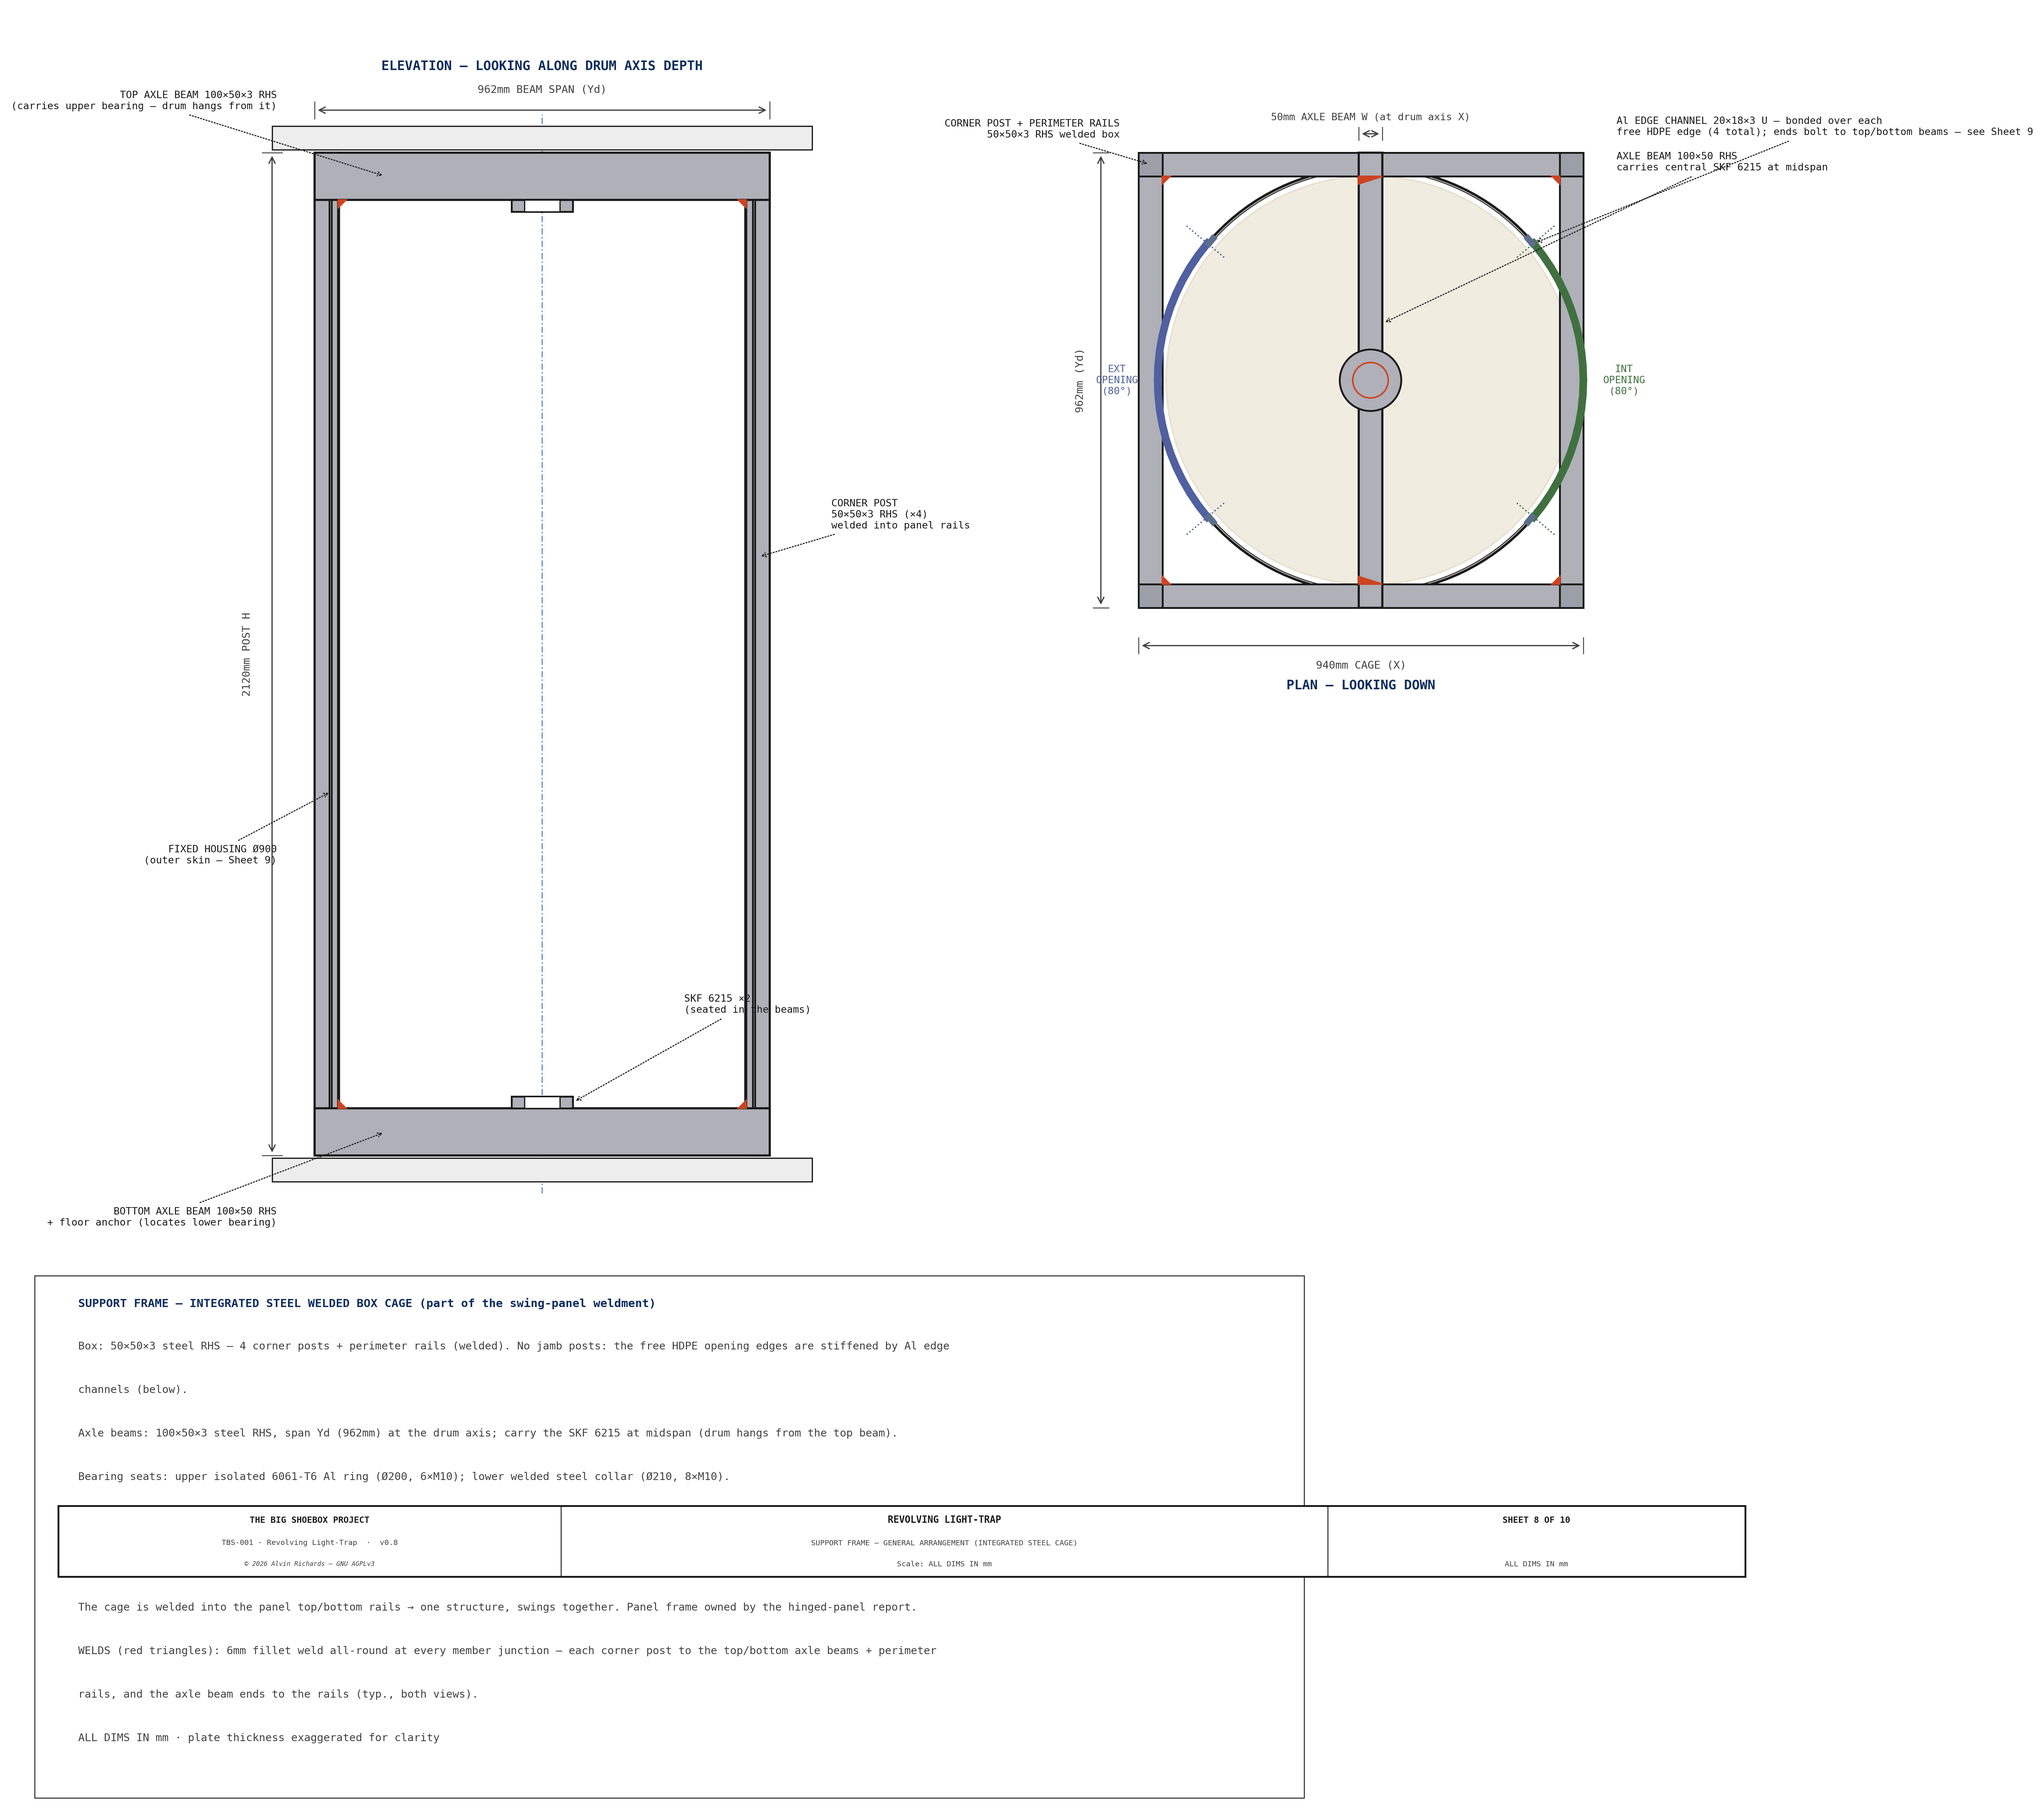
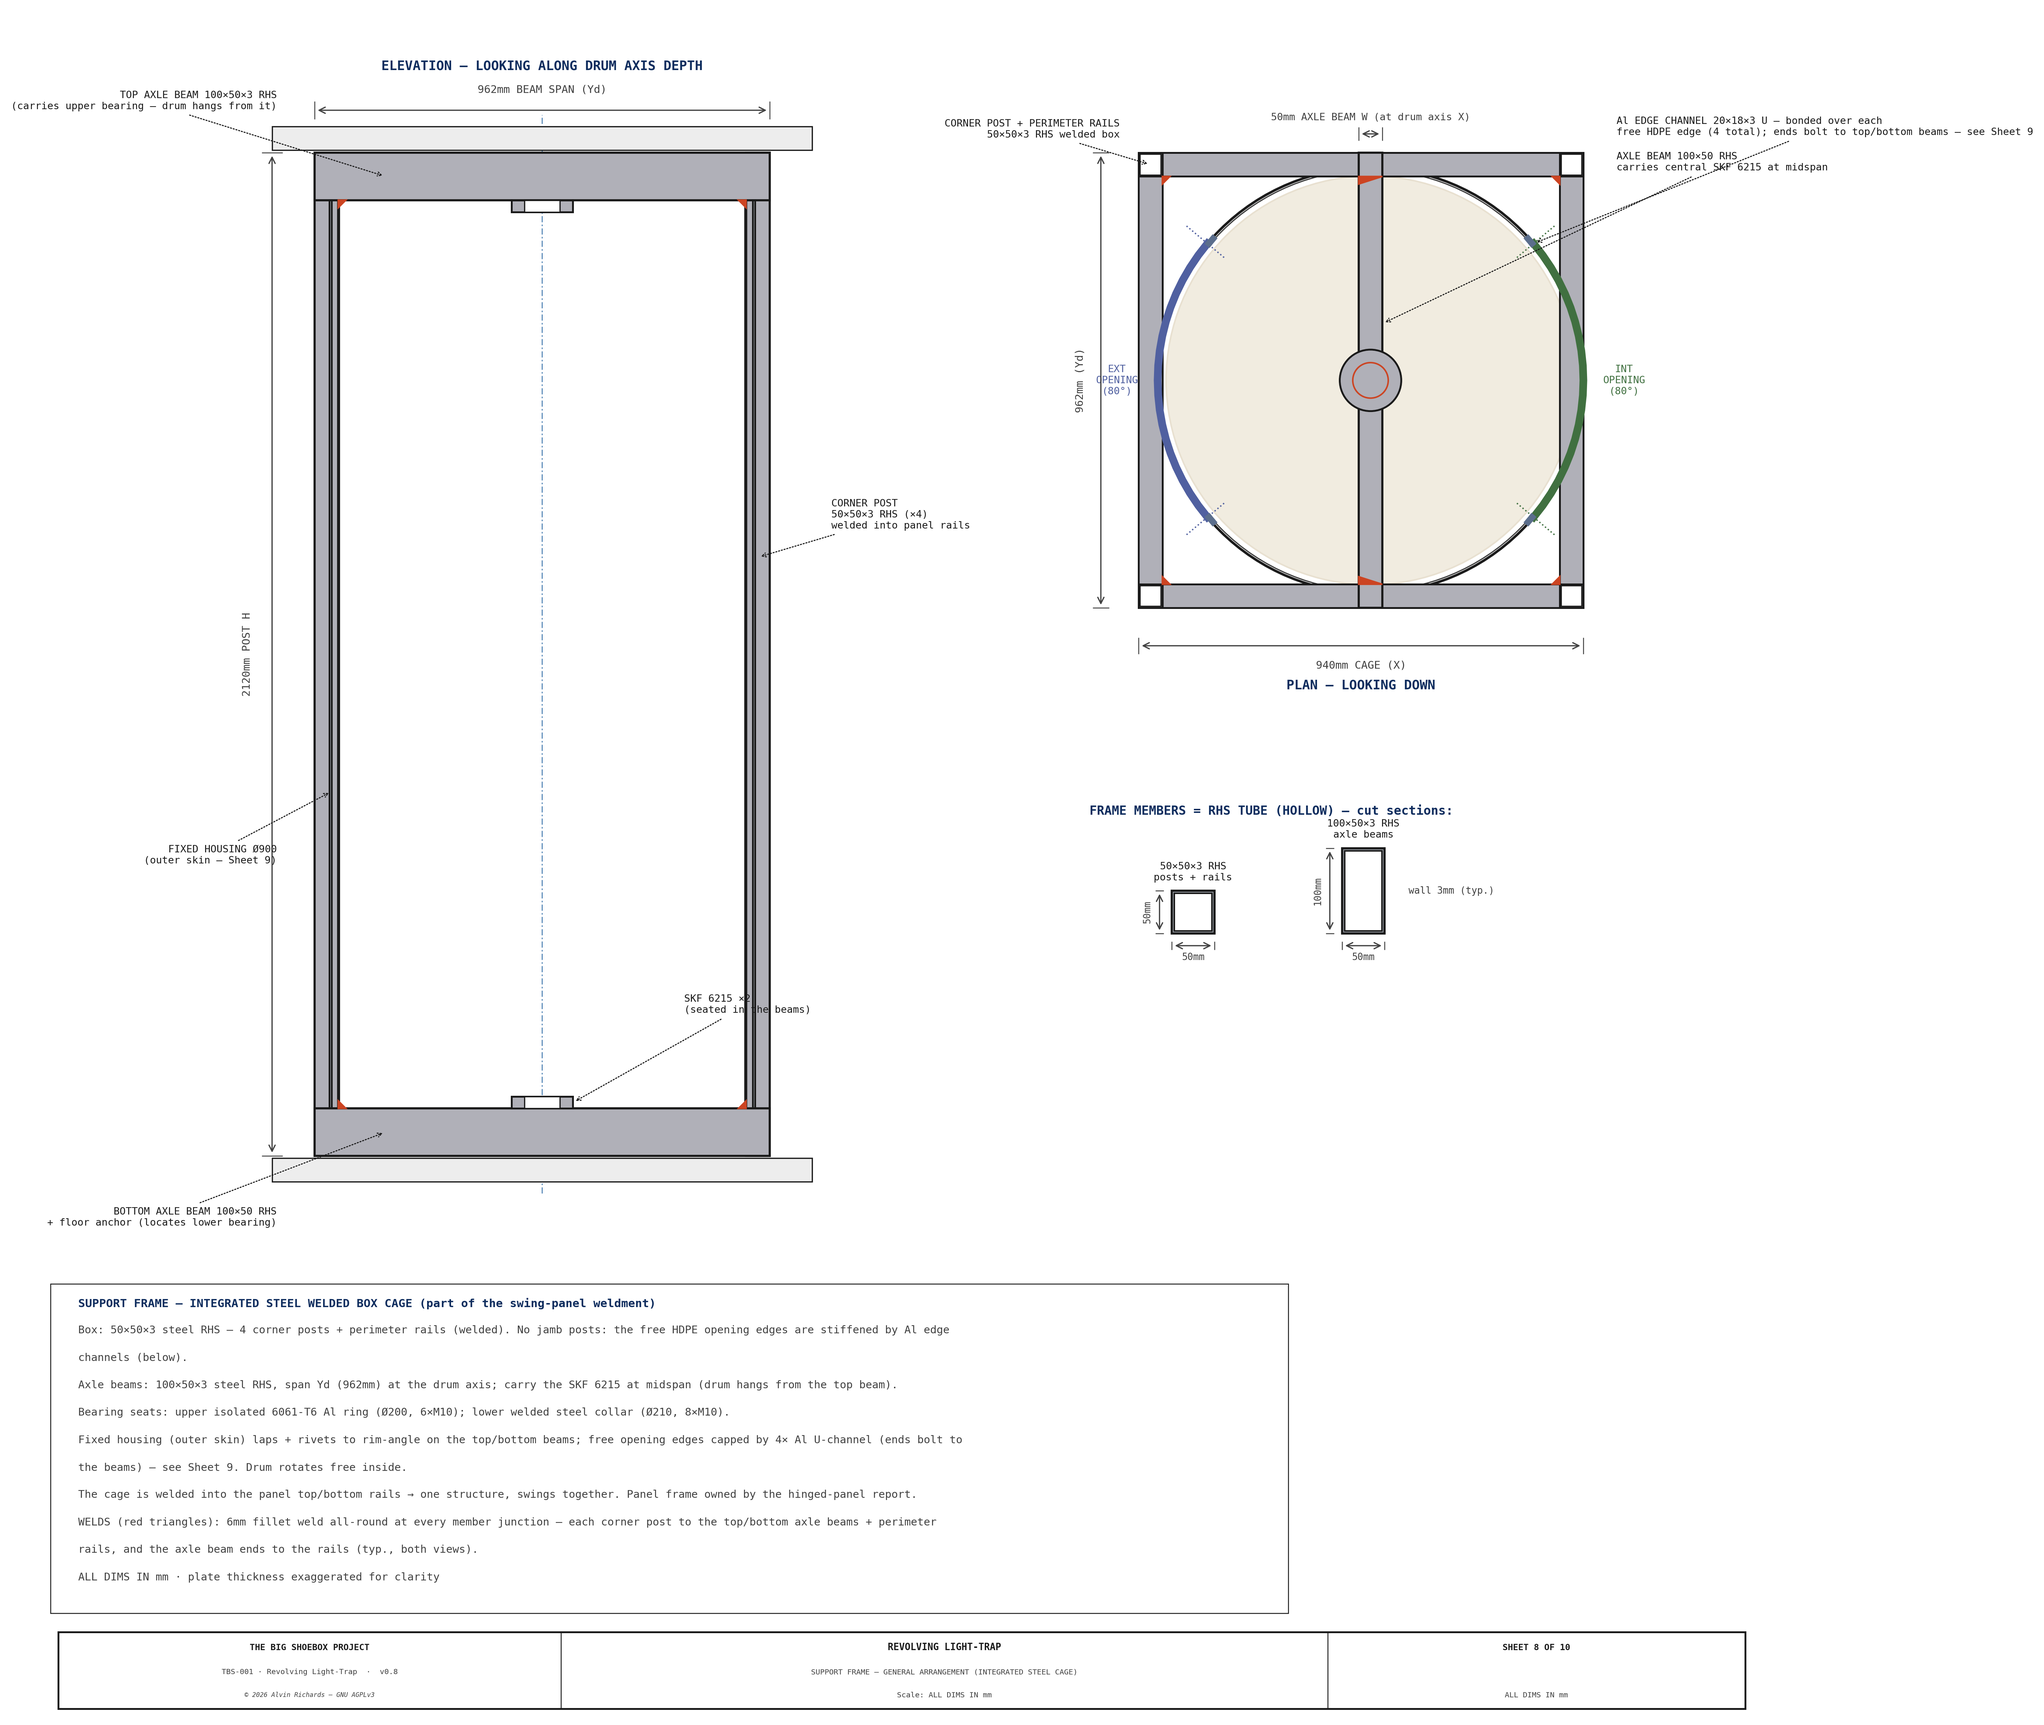
lighttrap: frame RHS tube sections (Sheet 8) + running-gap brush on Sheet 4
- Sheet 8: the frame is RHS TUBE, not solid bar — draw the plan corner posts HOLLOW
  (cut cross-section) and add an RHS section inset (50x50x3 + 100x50x3, dimensioned,
  wall 3mm) so the hollow sections read correctly; single-space the notes so they clear
  the title block; add tube_rect() helper
- Sheet 4: add the running-gap brush on the drum OD (was only on Sheet 10) — shown
  starting BELOW the cap lap so its backing rivets stagger clear of the shell->cap
  rivets (resolves the apparent clash the reader would ask about)

diff --git a/src/generators/generate_lighttrap_diagram.py b/src/generators/generate_lighttrap_diagram.py
@@ -99,6 +99,13 @@ def blind_rivet(ax, cx, cz, ang, grip, d=12):
     ax.add_patch(mpatches.Polygon(blind, closed=True, fc=RSC, ec=C_OUT, lw=1.2, zorder=9))
 
 
+def tube_rect(ax, x, y, w, h, wall, *, fc=C_STEEL, lw=1.4, zorder=6):
+    """RHS/SHS tube shown in CUT cross-section — wall material filled, bore void (BG).
+    x,y = outer corner; w,h = outer size; wall = wall thickness."""
+    draw_rect(ax, x, y, w, h, fc=fc, lw=lw, zorder=zorder)                                  # outer (wall)
+    draw_rect(ax, x + wall, y + wall, w - 2 * wall, h - 2 * wall, fc=BG, lw=lw * 0.7, zorder=zorder)  # bore (hollow)
+
+
 def draw_bolt(ax, cx, cz, length, *, d=10, vertical=True, head=-1, end="nut", zb=10):
     """Bolt in section — the project convention (cf. corner-gimbal bolt()): a filled shank
     with a wider HEAD at the `head` end and, at the far end, a hex NUT / weld-nut / tapped
@@ -706,6 +713,19 @@ def draw_sheet_secure():                           # Sheet 4 — drum secure (sh
     rz = LIP * 0.5
     blind_rivet(ax, (DPT + SHT - LEGT) / 2, rz, 0, S * (LT_DRUM_T + 1 + LT_RIM_T), d=RVD)  # shell → lip rivet (radial)
     blind_rivet(ax, -RIML / 2, (LEGT - CAPT) / 2, 90, CAPT + LEGT, d=RVD * 0.8)             # one leg → cap rivet (vertical)
+    # ── Running-gap brush wiper (Sheet 7) on the drum OD — starts BELOW the cap lap so its
+    # backing rivets stagger clear of the shell→cap rivets (the clash the reader would ask about).
+    bkx, bkT = DPT + SHT, S * 3.2                          # shell outer (drum OD) face · 1/8" SS backing
+    bk_bot, bk_top = -95, -18                              # below the lap zone (which is z 0..LIP)
+    draw_rect(ax, bkx, bk_bot, bkT, bk_top - bk_bot, fc="#8A8F98", lw=1.0, zorder=7)        # SS backing
+    for zz in range(int(bk_bot) + 8, int(bk_top), 8):                                       # bristles lay over into the gap
+        ax.plot([bkx + bkT, bkx + bkT + S * 18], [zz, zz + 14], color="#555", lw=0.5, zorder=7)
+    blind_rivet(ax, bkx + bkT / 2, (bk_bot + bk_top) / 2, 0, bkT + SHT + S * 1.0, d=RVD * 0.7)  # backing → shell rivet
+    for zz in (bk_bot - 6, bk_bot - 14):                                                    # break (brush + drum continue down)
+        ax.plot([bkx - 3, bkx + bkT + 3], [zz - 3, zz + 3], color=C_OUT, lw=0.5, zorder=8)
+    leader(ax, bkx + bkT + S * 9, bk_top - 18, 250, -CAPT - 150,
+           f"RUNNING-GAP BRUSH ({LT_WIPER_N} strips on the drum OD — Sheet 7):\nstarts clear BELOW the cap lap, so its backing rivets\nstagger past the shell→cap rivets (no clash)",
+           fs=6.0, color=C_OUT, ha="left", arrow_style="->", font=FONT)
 
     # ── Section dimensions + callouts (all to the 7:1 geometry) ──────────────
     draw_dim_v(ax, DPT + SHT + 40, 0, LIP, f"{LT_LAP_H}mm LAP", offset=42, fs=6.5, right=True, font=FONT)
@@ -821,7 +841,7 @@ def draw_sheet7():
         return (PX + (x - cx0), PZ + (yd - cyl))
 
     X_LO, X_HI = -560, PX + cW_x + 360
-    Z_LO, Z_HI = -900, cH + 300
+    Z_LO, Z_HI = -1180, cH + 300                    # extra bottom room: wrapped notes clear the title block
     FIG_W = 20.0
     FIG_H = FIG_W * (Z_HI - Z_LO) / (X_HI - X_LO)
     fig, ax = plt.subplots(figsize=(FIG_W, FIG_H), dpi=DIAGRAM_DPI)
@@ -903,10 +923,11 @@ def draw_sheet7():
     rrect(fp(cx0, cyr - RHS), cW_x, RHS, fc=C_STEEL, lw=1.2, zorder=5)
     rrect(fp(cx0, cyl), RHS, cW_y, fc=C_STEEL, lw=1.2, zorder=5)
     rrect(fp(cx1 - RHS, cyl), RHS, cW_y, fc=C_STEEL, lw=1.2, zorder=5)
-    # 4 corner posts
+    # 4 corner posts — CUT cross-section (looking down the vertical RHS) → drawn HOLLOW
     for xx in (cx0, cx1 - RHS):
         for yy in (cyl, cyr - RHS):
-            rrect(fp(xx, yy), RHS, RHS, fc="#9BA0A8", lw=1.2, zorder=6)
+            px, pz = fp(xx, yy)
+            tube_rect(ax, px, pz, RHS, RHS, LT_FRAME_T, fc="#9BA0A8", lw=1.2, zorder=6)
     # AXLE BEAM — spans Yd at the drum axis X, central bearing at midspan
     rrect(fp(CX - LT_AXLE_BEAM_W / 2, cyl), LT_AXLE_BEAM_W, cW_y, fc=C_STEEL, lw=1.4, zorder=7)
     # FILLET WELDS (plan) — small red triangles at each member junction (fp-based, orientation-safe)
@@ -971,6 +992,27 @@ def draw_sheet7():
            f"Al EDGE CHANNEL {LT_EDGE_CHAN_W}×{LT_EDGE_CHAN_LEG}×{LT_EDGE_CHAN_T} U — bonded over each\nfree HDPE edge ({LT_EDGE_CHAN_N} total); ends bolt to top/bottom beams — see Sheet 9",
            fs=6.5, color=C_OUT, ha="left", arrow_style="->", font=FONT)
 
+    # ── RHS tube-section inset — the frame members are HOLLOW tube, not solid bar ──
+    sxi, szi, SCi = PX + 70, 470, 1.8
+    ax.text(sxi + 210, szi + LT_AXLE_BEAM_H * SCi + 66,
+            "FRAME MEMBERS = RHS TUBE (HOLLOW) — cut sections:", ha="center", va="bottom",
+            fontsize=8, color=TITLE_COL, fontweight="bold", **FONT, zorder=15)
+    tube_rect(ax, sxi, szi, RHS * SCi, RHS * SCi, LT_FRAME_T * SCi, fc="#9BA0A8", lw=1.4, zorder=6)
+    draw_dim_h(ax, sxi, sxi + RHS * SCi, szi - 26, f"{RHS}mm", offset=26, fs=6.2, above=False, font=FONT)
+    draw_dim_v(ax, sxi - 26, szi, szi + RHS * SCi, f"{RHS}mm", offset=26, fs=6.2, font=FONT)
+    ax.text(sxi + RHS * SCi / 2, szi + RHS * SCi + 18, f"{RHS}×{RHS}×{LT_FRAME_T} RHS\nposts + rails",
+            ha="center", va="bottom", fontsize=6.5, color=C_OUT, **FONT, zorder=9)
+    bxi = sxi + 360
+    tube_rect(ax, bxi, szi, LT_AXLE_BEAM_W * SCi, LT_AXLE_BEAM_H * SCi, LT_AXLE_BEAM_T * SCi,
+              fc="#9BA0A8", lw=1.4, zorder=6)
+    draw_dim_h(ax, bxi, bxi + LT_AXLE_BEAM_W * SCi, szi - 26, f"{LT_AXLE_BEAM_W}mm", offset=26, fs=6.2, above=False, font=FONT)
+    draw_dim_v(ax, bxi - 26, szi, szi + LT_AXLE_BEAM_H * SCi, f"{LT_AXLE_BEAM_H}mm", offset=26, fs=6.2, font=FONT)
+    ax.text(bxi + LT_AXLE_BEAM_W * SCi / 2, szi + LT_AXLE_BEAM_H * SCi + 18,
+            f"{LT_AXLE_BEAM_H}×{LT_AXLE_BEAM_W}×{LT_AXLE_BEAM_T} RHS\naxle beams", ha="center",
+            va="bottom", fontsize=6.5, color=C_OUT, **FONT, zorder=9)
+    ax.text(bxi + LT_AXLE_BEAM_W * SCi + 50, szi + LT_AXLE_BEAM_H * SCi / 2,
+            f"wall {LT_FRAME_T}mm (typ.)", ha="left", va="center", fontsize=6.2, color=C_DIM, **FONT, zorder=9)
+
     # ── Notes ────────────────────────────────────────────────────────────────
     notes = [
         "SUPPORT FRAME — INTEGRATED STEEL WELDED BOX CAGE (part of the swing-panel weldment)",
@@ -982,7 +1024,7 @@ def draw_sheet7():
         "WELDS (red triangles): 6mm fillet weld all-round at every member junction — each corner post to the top/bottom axle beams + perimeter rails, and the axle beam ends to the rails (typ., both views).",
         "ALL DIMS IN mm · plate thickness exaggerated for clarity",
     ]
-    draw_notes(ax, notes, X_LO + 60, -300, 92, fs=7, font=FONT, width=2500, wrap=138,
+    draw_notes(ax, notes, X_LO + 60, -300, 58, fs=7, font=FONT, width=2500, wrap=138,
                title_color=TITLE_COL)
 
     title_block(ax, "SHEET 8 OF 10", drawing_title="REVOLVING LIGHT-TRAP",
